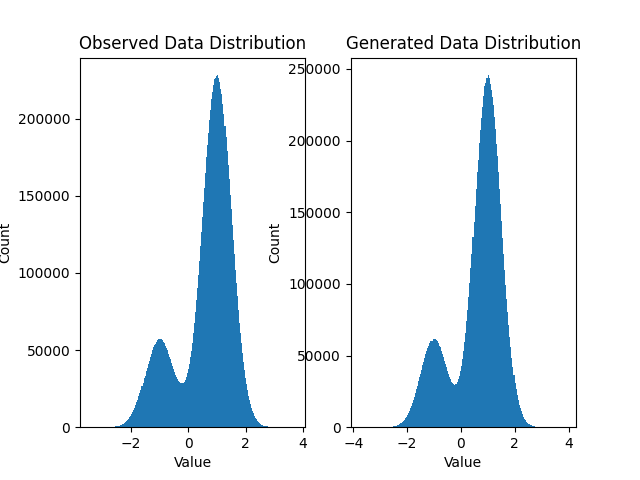
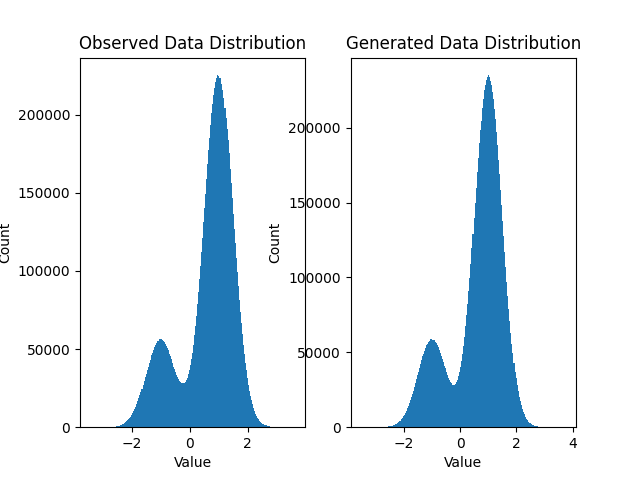
Update defaults.
Increase default number of examples.

diff --git a/em.py b/em.py
@@ -10,7 +10,7 @@ import time
 
 parser = argparse.ArgumentParser()
 parser.add_argument('--jax', action='store_true')
-parser.add_argument('--examples', type=int, default=1000000)
+parser.add_argument('--examples', type=int, default=10000000)
 args = parser.parse_args()
 
 _INIT_mu0 = -3.0
